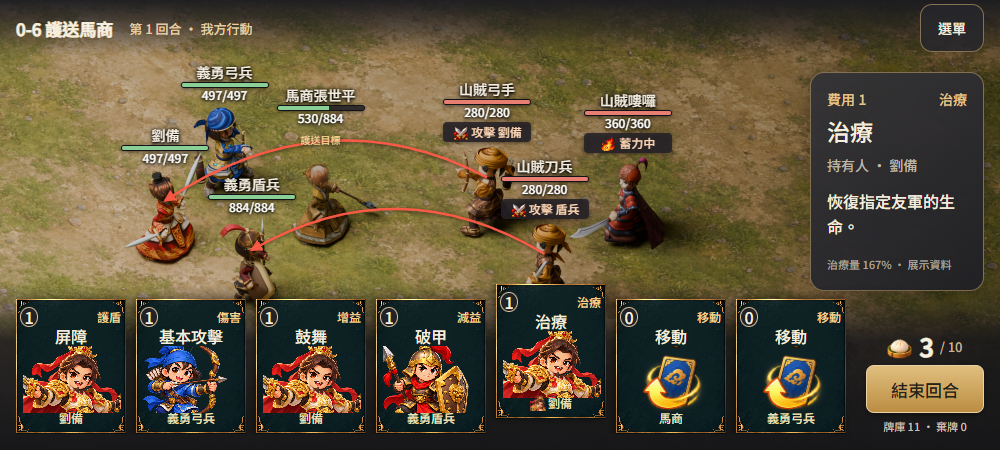
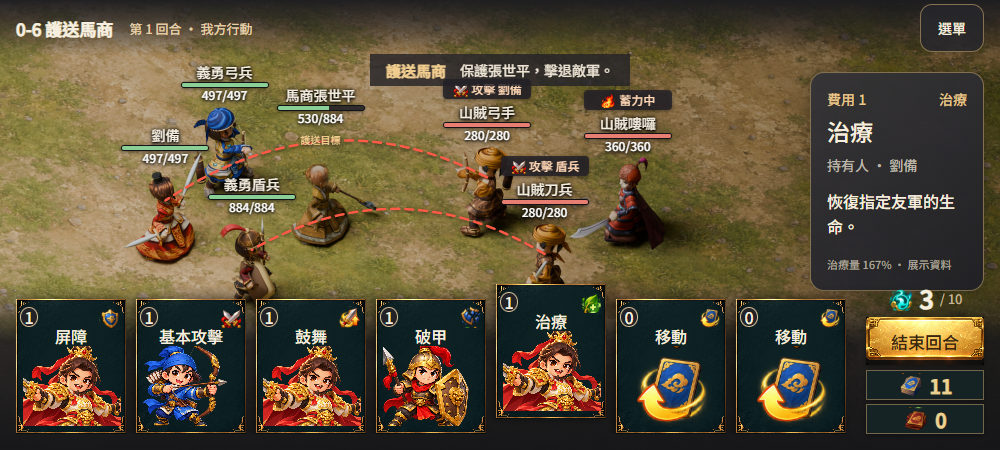
依六點註解修訂卡牌圖示、意圖排序與閃爍虛線素材

diff --git a/docs/ui-commercial-review/battle-revision-04/battle.js b/docs/ui-commercial-review/battle-revision-04/battle.js
@@ -2,14 +2,15 @@ const params=new URLSearchParams(location.search);
 let count=Math.min(10,Math.max(1,Number(params.get('count')||7))),ratio=params.get('ratio')==='20:9'?'20:9':'16:9',selected=params.has('selected')?Number(params.get('selected')):-1;
 const cards=[{cost:1,name:'屏障',owner:'劉備',face:'liubei',type:'護盾',cls:'shield',effect:'為指定友軍提供護盾。',detail:'護盾量 111% · 展示資料'},{cost:1,name:'基本攻擊',owner:'義勇弓兵',face:'r_archer',type:'傷害',cls:'damage',effect:'對指定敵軍造成物理傷害。',detail:'物傷 100% · 展示資料'},{cost:1,name:'鼓舞',owner:'劉備',face:'liubei',type:'增益',cls:'buff',effect:'提升指定友軍的戰鬥能力。',detail:'實際數值與持續回合由遊戲資料提供'},{cost:1,name:'破甲',owner:'義勇盾兵',face:'r_shield',type:'減益',cls:'debuff',effect:'削弱指定敵軍的防禦。',detail:'實際效果由遊戲資料提供'},{cost:1,name:'治療',owner:'劉備',face:'liubei',type:'治療',cls:'heal',effect:'恢復指定友軍的生命。',detail:'治療量 167% · 展示資料'},{cost:0,name:'移動',owner:'馬商',face:'r_villager',type:'移動',cls:'buff',effect:'選擇可達位置進行移動。',detail:'顯示合法落點；邏輯格不常駐外露'},{cost:0,name:'移動',owner:'義勇弓兵',face:'r_archer',type:'移動',cls:'buff',effect:'選擇可達位置進行移動。',detail:'移動規則沿用遊戲原設定'}];
 const units={liubei:['劉備',497,497,''],r_shield:['義勇盾兵',884,884,''],r_archer:['義勇弓兵',497,497,''],r_villager:['馬商張世平',530,884,'護送目標'],bandit_archer:['山賊弓手',280,280,''],bandit_grunt:['山賊刀兵',280,280,''],bandit_shaman:['山賊嘍囉',360,360,'']};
+const typeIcon=c=>c.name==='移動'?'draw':({shield:'armor',damage:'damage',heal:'heal',buff:'status_atkup',debuff:'status_armorbreak'}[c.cls]);
 const face=n=>`../../../client/Assets/Resources/ChibiSkin/face_${n}.png`;
 function fit(){const w=ratio==='20:9'?1000:800,wrap=document.querySelector('#wrap'),scene=document.querySelector('#scene');if(params.has('export')){wrap.style.width=w+'px';wrap.style.height='450px';return;}const scale=wrap.clientWidth/w;scene.style.transform=`scale(${scale})`;wrap.style.height=450*scale+'px';}
-function details(){const el=document.querySelector('#details');el.classList.toggle('empty',selected<0);if(selected<0){el.innerHTML='<h2>護送馬商</h2><p>保護張世平，擊退敵軍。</p><small class="note">點按手牌查看效果</small>';return;}const c=cards[selected%cards.length];el.innerHTML=`<div class="detail-meta"><span>費用 ${c.cost}</span><span>${c.type}</span></div><h2>${c.name}</h2><div class="detail-owner">持有人 · ${c.owner}</div><p>${c.effect}</p><small class="note">${c.detail}</small>`;}
-function hand(){const el=document.querySelector('#hand'),w=el.clientWidth,step=Math.max(56,Math.min(120,(w-110)/Math.max(1,count-1)));el.innerHTML=Array.from({length:count},(_,i)=>{const c=cards[i%cards.length];return `<button class="card ${i===selected?'selected':''}" style="left:${i*step}px;z-index:${count-i};--peek:${i===0?110:Math.min(110,step)}px" data-card="${i}" aria-label="${c.name}，${c.type}，費用${c.cost}，持有人${c.owner}" aria-pressed="${i===selected}"><span class="cost">${c.cost}</span><span class="type ${c.cls}">${c.type}</span><span class="name">${c.name}</span><img class="card-art" src="../../../client/Assets/Resources/ChibiSkin/${c.name==='移動'?'draw':'bust_'+c.face}.png" alt=""><span class="owner"><img src="${face(c.face)}" alt="">${step<68?({義勇弓兵:"弓兵",義勇盾兵:"盾兵"}[c.owner]||c.owner):c.owner}</span></button>`;}).join('');el.querySelectorAll('button').forEach(b=>b.onclick=()=>{selected=selected===Number(b.dataset.card)?-1:Number(b.dataset.card);hand();details();document.querySelector('#status').textContent=selected<0?'已收回卡牌詳情。':'已查看 '+cards[selected%7].name+'；未執行出牌。';});}
+function details(){const el=document.querySelector('#details');el.classList.toggle('empty',selected<0);if(selected<0){el.innerHTML='';return;}const c=cards[selected%cards.length];el.innerHTML=`<div class="detail-meta"><span>費用 ${c.cost}</span><span>${c.type}</span></div><h2>${c.name}</h2><div class="detail-owner">持有人 · ${c.owner}</div><p>${c.effect}</p><small class="note">${c.detail}</small>`;}
+function hand(){const el=document.querySelector('#hand'),w=el.clientWidth,step=Math.max(56,Math.min(120,(w-110)/Math.max(1,count-1)));el.innerHTML=Array.from({length:count},(_,i)=>{const c=cards[i%cards.length];return `<button class="card ${i===selected?'selected':''}" style="left:${i*step}px;z-index:${count-i};--peek:${i===0?110:Math.min(110,step)}px" data-card="${i}" aria-label="${c.name}，${c.type}，費用${c.cost}，持有人${c.owner}" aria-pressed="${i===selected}"><span class="cost">${c.cost}</span><span class="type ${c.cls}" title="${c.type}"><img src="../../../client/Assets/Resources/ChibiSkin/${typeIcon(c)}.png" alt="${c.type}"></span><span class="name">${c.name}</span><img class="card-art" src="../../../client/Assets/Resources/ChibiSkin/${c.name==='移動'?'draw':'bust_'+c.face}.png" alt=""></button>`;}).join('');el.querySelectorAll('button').forEach(b=>b.onclick=()=>{selected=selected===Number(b.dataset.card)?-1:Number(b.dataset.card);hand();details();document.querySelector('#status').textContent=selected<0?'已收回卡牌詳情。':'已查看 '+cards[selected%7].name+'；未執行出牌。';});}
 let anchors={};
 function enemyIntent(id){if(!id.startsWith('bandit'))return '';const charge=id==='bandit_shaman',text=charge?'蓄力中':id==='bandit_archer'?'攻擊 劉備':'攻擊 盾兵';return `<span class="intent"><img src="../../../client/Assets/Resources/ChibiSkin/${charge?'charge':'damage'}.png" alt="">${text}</span>`;}
-function aimLines(){const w=ratio==='20:9'?1000:800,points=anchors[ratio]||[],p=id=>points.find(a=>a.id===id),arcs=[['bandit_archer','liubei'],['bandit_grunt','r_shield']].map(([from,to])=>{const a=p(from),b=p(to);if(!a||!b)return '';const x=a.x*w,y=a.y*450+35,tx=b.x*w,ty=b.y*450+36,cx=(x+tx)/2,cy=Math.min(y,ty)-84;return `<path d="M${x},${y} Q${cx},${cy} ${tx},${ty}" marker-end="url(#aim-head)"/>`;}).join('');document.querySelector('#field').insertAdjacentHTML('afterbegin',`<svg class="aim-lines" viewBox="0 0 ${w} 450" aria-label="敵人瞄準目標示意"><defs><marker id="aim-head" markerWidth="5" markerHeight="5" refX="4" refY="2.5" orient="auto"><path d="M0,0 L5,2.5 L0,5" fill="#ff5a46" stroke="none"/></marker></defs>${arcs}</svg>`);}
-function render(){document.querySelector('#scene').classList.toggle('wide',ratio==='20:9');document.querySelector('#ratio').value=ratio;document.querySelector('#count').value=count;document.querySelector('#field').innerHTML=(anchors[ratio]||[]).map(a=>{const u=units[a.id];return `<div class="hud ${a.id.startsWith('bandit')?'enemy':''}" style="left:${a.x*100}%;top:${a.y*100}%" data-unit="${a.id}"><b>${u[0]}</b><div class="hp"><i style="width:${u[1]/u[2]*100}%"></i></div><small>${u[1]}/${u[2]}</small>${u[3]?`<span class="state">${u[3]}</span>`:''}${enemyIntent(a.id)}</div>`;}).join('');aimLines();hand();details();fit();}
+function aimLines(){const w=ratio==='20:9'?1000:800,points=anchors[ratio]||[],p=id=>points.find(a=>a.id===id),arcs=[['bandit_archer','liubei'],['bandit_grunt','r_shield']].map(([from,to])=>{const a=p(from),b=p(to);if(!a||!b)return '';const x=a.x*w,y=a.y*450+35,tx=b.x*w,ty=b.y*450+36,cx=(x+tx)/2,cy=Math.min(y,ty)-84;return `<path d="M${x},${y} Q${cx},${cy} ${tx},${ty}" />`;}).join('');document.querySelector('#field').insertAdjacentHTML('afterbegin',`<svg class="aim-lines" viewBox="0 0 ${w} 450" aria-label="敵人瞄準目標示意">${arcs}</svg>`);}
+function render(){document.querySelector('#scene').classList.toggle('wide',ratio==='20:9');document.querySelector('#ratio').value=ratio;document.querySelector('#count').value=count;document.querySelector('#field').innerHTML=(anchors[ratio]||[]).map(a=>{const u=units[a.id];return `<div class="hud ${a.id.startsWith('bandit')?'enemy':''}" style="left:${a.x*100}%;top:${a.y*100}%" data-unit="${a.id}">${enemyIntent(a.id)}<b>${u[0]}</b><div class="hp"><i style="width:${u[1]/u[2]*100}%"></i></div><small>${u[1]}/${u[2]}</small>${u[3]?`<span class="state">${u[3]}</span>`:''}</div>`;}).join('');aimLines();hand();details();fit();}
 document.querySelector('#count').onchange=e=>{count=Number(e.target.value);selected=-1;render();};document.querySelector('#ratio').onchange=e=>{ratio=e.target.value;render();};document.querySelector('#menu').onclick=()=>document.querySelector('dialog').showModal();document.querySelector('#close').onclick=()=>document.querySelector('dialog').close();document.querySelector('#end').onclick=()=>{document.querySelector('#status').textContent='已點選結束回合；原型不執行回合結算。';};window.addEventListener('resize',fit);if(params.has('export'))document.body.classList.add('export');fetch('assets/anchors.json').then(r=>r.json()).then(a=>{anchors=a;render();});document.fonts.ready.then(fit);
 
 

diff --git a/docs/ui-commercial-review/battle-revision-04/index.html b/docs/ui-commercial-review/battle-revision-04/index.html
@@ -1,4 +1,4 @@
 <!doctype html>
-<html lang="zh-Hant"><head><meta charset="utf-8"><meta name="viewport" content="width=device-width,initial-scale=1"><link rel="icon" href="data:,"><link rel="stylesheet" href="battle.css"><link rel="stylesheet" href="classic-hand.css"><script src="battle.js" defer></script><title>戰鬥 UX · 提案 04</title></head><body><header><small>三國將星傳 · 戰鬥介面提案 04</small><h1>既有手牌微調 · 自然戰场</h1><p>沿用立繪、金框與既有 3D 場景拼稿；Unity 素材已準備，意圖與瞄準對象為展示範例。</p></header><main><div class="tools"><a href="../revision-03/index.html">主城提案</a><label>比例<select id="ratio"><option>16:9</option><option>20:9</option></select></label><label>手牌<select id="count"><option>3</option><option selected>7</option><option>10</option></select></label><a href="README.md">素材與接入規格</a></div><div id="wrap"><div id="scene"><div id="field"></div><div class="top"><span><b>0-6 護送馬商</b><small>第 1 回合 · 我方行動</small></span><button id="menu" aria-label="戰鬥選單">選單</button></div><aside id="details"></aside><div class="bottom"><div id="hand"></div><div class="turn"><div class="energy"><img src="../../../client/Assets/Resources/ChibiSkin/item_stamina.png" alt=""><b>3</b><small>/ 10</small></div><button id="end">結束回合</button><small>牌庫 11 · 棄牌 0</small></div></div></div></div><p id="status" role="status">點按手牌查看右側詳情；再點同一張收回。展示資料不代表實際戰鬥。</p></main><dialog><h2>戰鬥選單</h2><button id="close">返回戰鬥</button><p>撤退／重來由原有遊戲流程接入。</p></dialog></body></html>
+<html lang="zh-Hant"><head><meta charset="utf-8"><meta name="viewport" content="width=device-width,initial-scale=1"><link rel="icon" href="data:,"><link rel="stylesheet" href="battle.css"><link rel="stylesheet" href="classic-hand.css"><script src="battle.js" defer></script><title>戰鬥 UX · 提案 04</title></head><body><header><small>三國將星傳 · 戰鬥介面提案 04</small><h1>既有手牌微調 · 自然戰场</h1><p>沿用立繪、金框與既有 3D 場景拼稿；Unity 素材已準備，意圖與瞄準對象為展示範例。</p></header><main><div class="tools"><a href="../revision-03/index.html">主城提案</a><label>比例<select id="ratio"><option>16:9</option><option>20:9</option></select></label><label>手牌<select id="count"><option>3</option><option selected>7</option><option>10</option></select></label><a href="README.md">素材與接入規格</a></div><div id="wrap"><div id="scene"><div id="field"></div><div class="top"><span><b>0-6 護送馬商</b><small>第 1 回合 · 我方行動</small></span><button id="menu" aria-label="戰鬥選單">選單</button></div><div class="objective"><b>護送馬商</b><span>保護張世平，擊退敵軍。</span></div><aside id="details"></aside><div class="bottom"><div id="hand"></div><div class="turn"><div class="energy"><img src="../../../client/Assets/Resources/ChibiSkin/cost.png" alt=""><b>3</b><small>/ 10</small></div><button id="end">結束回合</button><div class="original-piles"><button aria-label="牌庫 11"><img src="../../../client/Assets/Resources/ChibiSkin/pile_draw.png" alt=""><b>11</b></button><button aria-label="棄牌 0"><img src="../../../client/Assets/Resources/ChibiSkin/pile_discard.png" alt=""><b>0</b></button></div></div></div></div></div><p id="status" role="status">點按手牌查看右側詳情；再點同一張收回。展示資料不代表實際戰鬥。</p></main><dialog><h2>戰鬥選單</h2><button id="close">返回戰鬥</button><p>撤退／重來由原有遊戲流程接入。</p></dialog></body></html>
 
 

diff --git a/docs/ui-commercial-review/battle-revision-04/classic-hand.css b/docs/ui-commercial-review/battle-revision-04/classic-hand.css
@@ -1,2 +1,3 @@
 .bottom{height:165px}#hand{height:150px}.card,.card.selected{height:135px;background:#102024;border-radius:1px;border-image-source:url('../../../client/Assets/Resources/ChibiSkin/panel.png');border-image-slice:96 fill;border-image-width:7px;box-shadow:-3px 0 8px #0006}.card .name,.card.selected .name{top:27px;font-size:16px;line-height:18px}.card-art{position:absolute;left:6px;right:6px;top:46px;width:98px;height:67px;object-fit:contain;pointer-events:none}.card .owner,.card.selected .owner{bottom:7px;color:#eee1ba}.card .owner img{display:none}.card .type{color:#f7d394}.intent{display:flex;justify-content:center;align-items:center;gap:3px;color:#ffd7b4;font-size:12px;background:#252127d9;border-radius:4px;margin-top:3px;line-height:20px;height:20px}.intent img{width:16px;height:16px;object-fit:contain}.hud{z-index:2}.aim-lines{position:absolute;inset:0;width:100%;height:450px;pointer-events:none;z-index:1;overflow:visible}.aim-lines>path{stroke:#ff5a46;stroke-width:2.5;fill:none;opacity:.95;filter:drop-shadow(0 1px 2px #0008)}
 .card-art{object-fit:cover;object-position:50% 20%}.card:has(.type.buff) .card-art[src$="draw.png"]{object-fit:contain}
+.card .owner{display:none}.card .type{width:22px;height:22px;top:6px;right:4px}.card .type img{width:100%;height:100%;object-fit:contain}.card-art{height:80px}.intent{margin-top:0;margin-bottom:3px}.objective{position:absolute;top:54px;left:50%;transform:translateX(-50%);height:32px;padding:0 16px;display:flex;align-items:center;gap:14px;background:#232227ce;color:#eee5d5;border-radius:0;white-space:nowrap;font-size:14px;z-index:3}.objective b{font-size:15px;color:#f0cc8e}#details.empty{display:none}.aim-lines>path{stroke-dasharray:8 6;stroke-linecap:round;animation:aim-pulse 1s ease-in-out infinite}@keyframes aim-pulse{0%,100%{opacity:.25}50%{opacity:1}}.turn #end{border-image-source:url("../../../client/Assets/Resources/ChibiSkin/gold.png");border-image-slice:100 100 60 60 fill;border-image-width:8px;border-radius:0;color:#382610}.original-piles{display:flex;flex-direction:column;gap:4px;margin-top:5px}.original-piles button{display:flex;align-items:center;justify-content:center;gap:8px;width:118px;height:30px;border:1px solid #736549;border-radius:0;background:#152325;color:#ead194}.original-piles img{width:24px;height:24px;object-fit:contain}.original-piles b{font-size:20px}

diff --git a/client/Assets/Resources/BattleArt/README.md b/client/Assets/Resources/BattleArt/README.md
@@ -7,7 +7,7 @@
 - `GrassDirt.png`：沿用本輪已生成的草地／裸土 albedo，原素材在 `docs/ui-commercial-review/battle-revision-04/assets/ground-grass-dirt.png`。新增 Unity TextureImporter meta，sRGB、mipmap、Repeat。
 - `NaturalGround.shader`／`NaturalGround.mat`：URP地表材質，採白色 tint，不染成綠色棋盤；接收主光陰影。地面使用連續UV，不能每格重設UV造成重複棋盤圖案。原模型、邏輯格與移動判定保持原有設定。材質供接入，尚未替換原 ProductionBoard prefab。
 - `EnemyAim.shader`／`EnemyAim.mat`：URP透明紅線材質，白色頂點色、紅色材質，不寫深度、正常深度測試。給原生 LineRenderer／箭頭mesh使用，不需新增生成圖。模型遮擋採正常深度；正式可讀性依鏡頭驗收。
-- `HandCompact.uss`：附加樣式候選，沿用原 `ChibiSkin/panel.png` 與 `PortraitArt`；244高牌身、138高人物區、費用和右上角大類型、名稱與持有人；手牌不常駐效果數值。尚未加入 PageHost 載入清單，避免將本輪素材提案誤作已完成執行期接入。
+- `HandCompact.uss`：附加樣式候選，沿用原 `ChibiSkin/panel.png` 與 `PortraitArt`；244高牌身、138高人物區、費用和右上角大類型、名稱（牌面不再顯示持有人文字）；手牌不常駐效果數值。尚未加入 PageHost 載入清單，避免將本輪素材提案誤作已完成執行期接入。
 
 沿用而非新製：全部人物模型、立繪、金框、damage／charge／draw意圖圖示。只新增Unity材質／樣式封裝，地表圖片是上一階段已生成的素材，沒有再次呼叫生成服務。
 
@@ -15,12 +15,15 @@
 
 現有 `BattleScreen.Render.cs` 的 `FillIntent` 已讀取 `_battle.GetIntent(enemy)` 並顯示攻擊目標、蓄力或逼近；保留既有意圖計算。頭頂HUD必須繼續顯示該意圖。
 
-紅色拋物線使用同一份實際intent.Target，起點敵人胸口、終點目標胸口；二次Bezier，控制點在兩端中點上方約1.2～1.8世界單位，24～32採樣點。LineRenderer寬約0.025～0.045世界單位，末端三角箭頭，使用 `EnemyAim.mat`。只有Attack且Target存活時顯示；蓄力、逼近、死亡、目標為空時關閉。回合、位置或意圖更新時重算，不能由美術重新決定敵人瞄準誰。拼稿兩條線是展示關係，不是實際關卡AI資料。
+紅色拋物線使用同一份實際intent.Target，起點敵人胸口、終點目標胸口；二次Bezier，控制點在兩端中點上方約1.2～1.8世界單位，24～32採樣點。LineRenderer寬約0.025～0.045世界單位，textureMode使用Tile，無箭頭的閃爍虛線，使用 `EnemyAim.mat`。只有Attack且Target存活時顯示；蓄力、逼近、死亡、目標為空時關閉。回合、位置或意圖更新時重算，不能由美術重新決定敵人瞄準誰。拼稿兩條線是展示關係，不是實際關卡AI資料。
 
-手牌上限10張，保留現有 `LayoutHand` 的靠攏／重疊／選牌抬高，依實際手機畫布調間距。牌面欄位費用、名稱、持有人與右上類型；詳細描述沿用右側 `_detail`。`sts-card-category` 與 `sts-card-owner` 需在原渲染中加入Label，依企劃提供的類型映射，不新增卡牌效果。套用附加USS後同步調整底部佔位，避免只缩牌身卻仍留大空區。
+手牌上限10張，保留現有 `LayoutHand` 的靠攏／重疊／選牌抬高，依實際手機畫布調間距。牌面欄位費用、名稱與右上類型圖示；詳細描述沿用右側 `_detail`。`sts-card-category` 使用沿用圖示；不加入持有人Label，依企劃提供的類型映射，不新增卡牌效果。套用附加USS後同步調整底部佔位，避免只缩牌身卻仍留大空區。
 
 ## 驗證
 
 素材GUID引用、PNG路徑與既有底材均已核對。兩種比例3／7／10張的拼稿逐牌點選與右側詳情通過；敵人三組意圖、兩條紅色Bezier指示已展示。沒有Unity Shader編譯、材質導入或遊戲實機驗收紀錄，故本包狀態為「素材／接入規格已備妥」，不是已完成遊戲整合。
 
 最新拼稿：`docs/ui-commercial-review/battle-revision-04/index.html`。本檔的修訂方向取代該提案README中先前純文字牌身的方向；原先離線人物渲染直接沿用，本轮没有再重製。
+
+## 最新六點修訂
+牌底持有人文字移除，只在右側詳情保留。敵人意圖放在名稱上方（先Intent，再Name／HP），不能只用USS換序，須由程式端调整HUD子元素順序。任務提示常駐畫面中央偏上，扁平長條、無教學提示；與右側選牌詳情分開。右下沿用cost／gold／pile_draw／pile_discard原素材與直列配置。牌型使用armor／damage／heal／status_atkup／status_armorbreak／draw既有圖示，文字僅作可存取標籤或詳情。紅色Bezier無箭頭，EnemyAim shader以UV產生虛線並以1秒週期閃爍；不新增敵人決策。

diff --git a/docs/ui-commercial-review/battle-revision-04/README.md b/docs/ui-commercial-review/battle-revision-04/README.md
@@ -33,3 +33,6 @@ Codex可處理地表素材、HUD外觀與手牌顯示版面。程式端需接原
 HUD使用角色頭部錨點，不用本稿的靜態百分比；血量、護盾、狀態與陣營讀取實際資料。地面換材質但保留原位置判定，僅在需要操作時顯示格位。正式安全区讀取裝置回報，底部背景延伸至邊緣、操作保留內距。尚未完成Unity接入、硬體閱讀與連續戰鬥驗收。
 
 以 Blender 執行 `scene.py` 重建兩種比例渲染；開啟既有本機預覽服務後用含 Playwright 的 Node 執行 `render.cjs` 輸出觸控紀錄與畫面。未發布。
+
+## 2026-10-10 六點註解修訂
+牌底持有人字移除，牌型改用沿用PNG圖示；頭頂意圖放在名稱上方；任務提示改成中央偏上扁平長條，不顯示點牌教學，右側仍供選牌詳情。右下費用、金色按鈕與直列牌堆恢復原設計。紅色瞄準Bezier移除箭頭，以虛線及1秒週期明暗閃爍呈現；Unity EnemyAim材質同步更新。修訂覆蓋上方早期牌面持有人與右側任務區描述。
